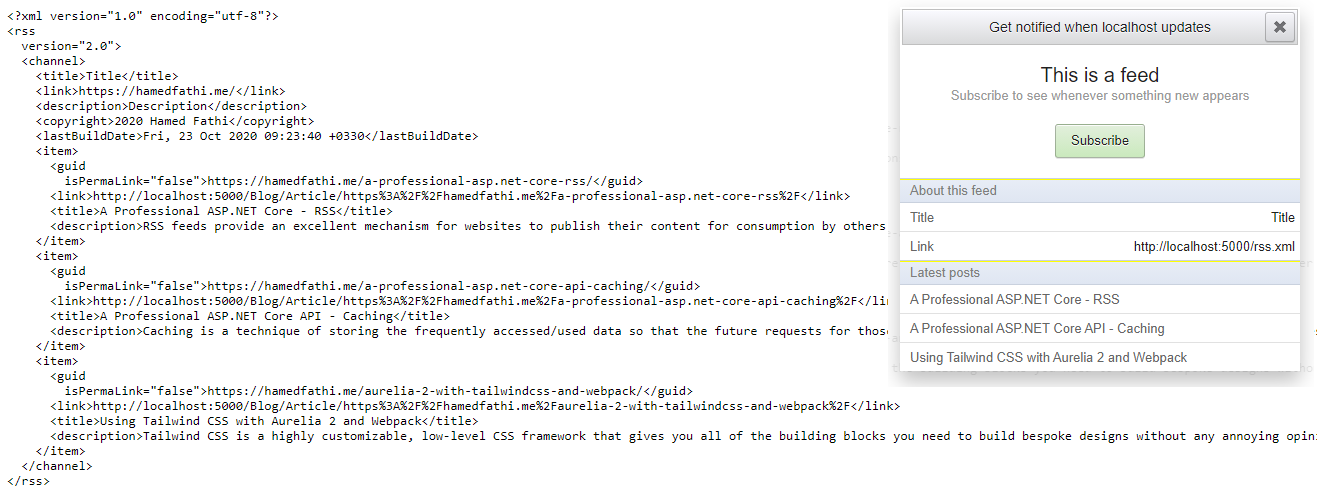
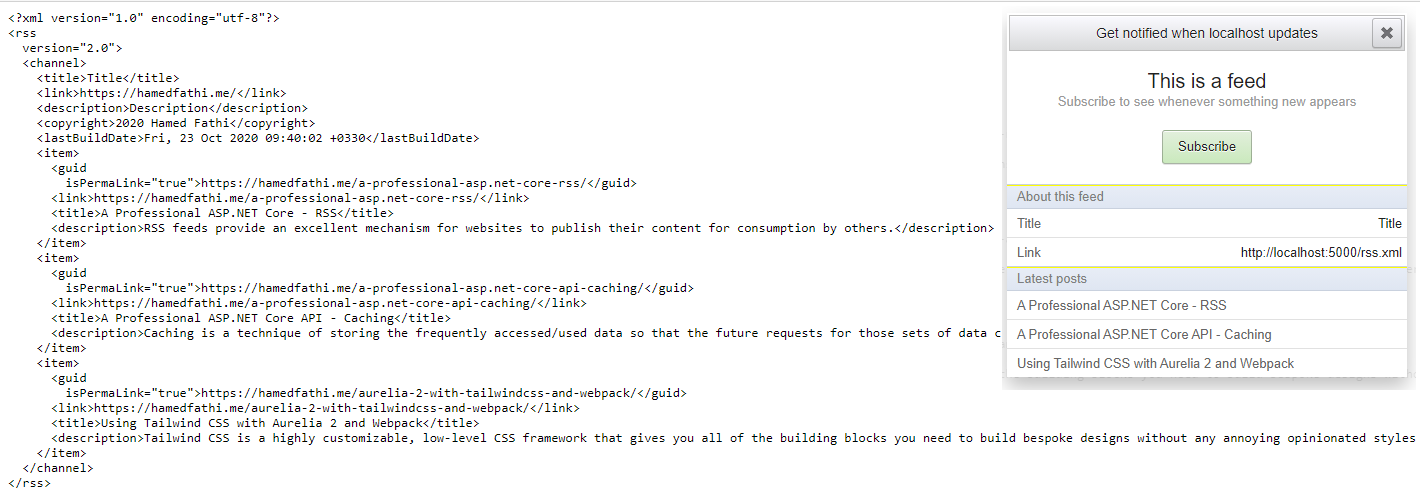
updated

Changed region(s): [[0.0, 0.0, 1.0, 0.996], [0.6849, 0.0, 0.9962, 0.2113], [0.6538, 0.3018, 0.6849, 0.332]]

diff --git a/source/_posts/a-professional-asp.net-core-rss.md b/source/_posts/a-professional-asp.net-core-rss.md
@@ -81,7 +81,9 @@ public IActionResult Rss()
     var postings = GetBlogPosts();
     foreach (var item in postings)
     {
-        var postUrl = Url.Action("Article", "Blog", new { id = item.Url }, HttpContext.Request.Scheme);
+        // You can make the Url too
+        // var postUrl = Url.Action("Article", "Blog", new { id = item.Url }, HttpContext.Request.Scheme);
+        var postUrl = item.Url;
         var title = item.Title;
         var description = item.Description;
         items.Add(new SyndicationItem(title, description, new Uri(postUrl), item.Url, item.CreatedDate));
